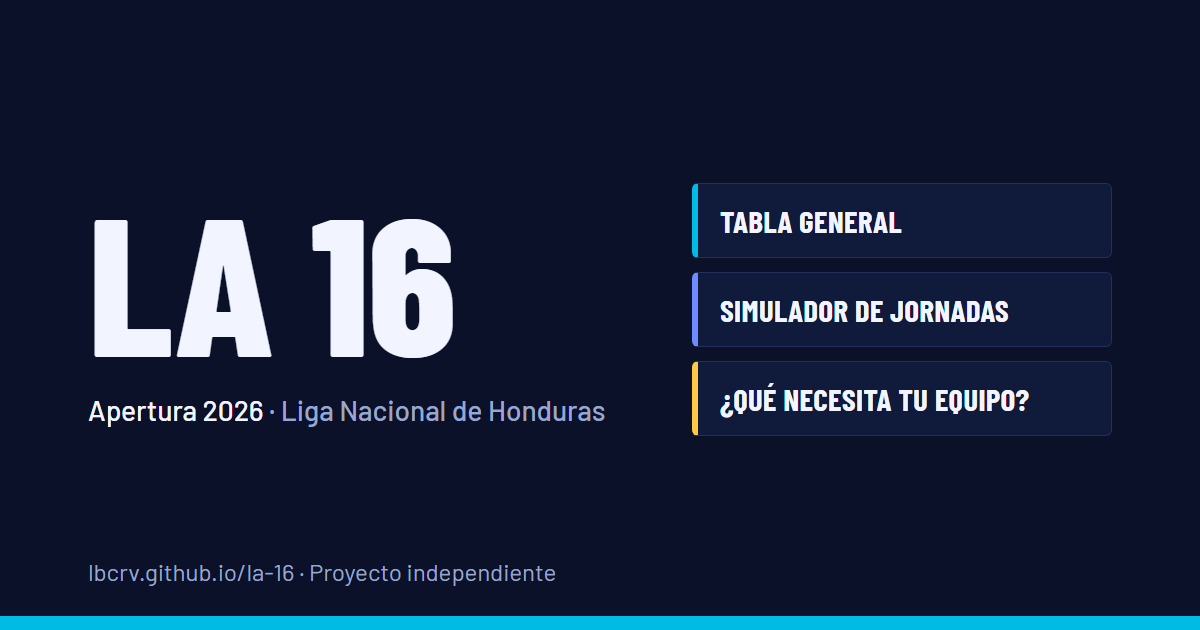
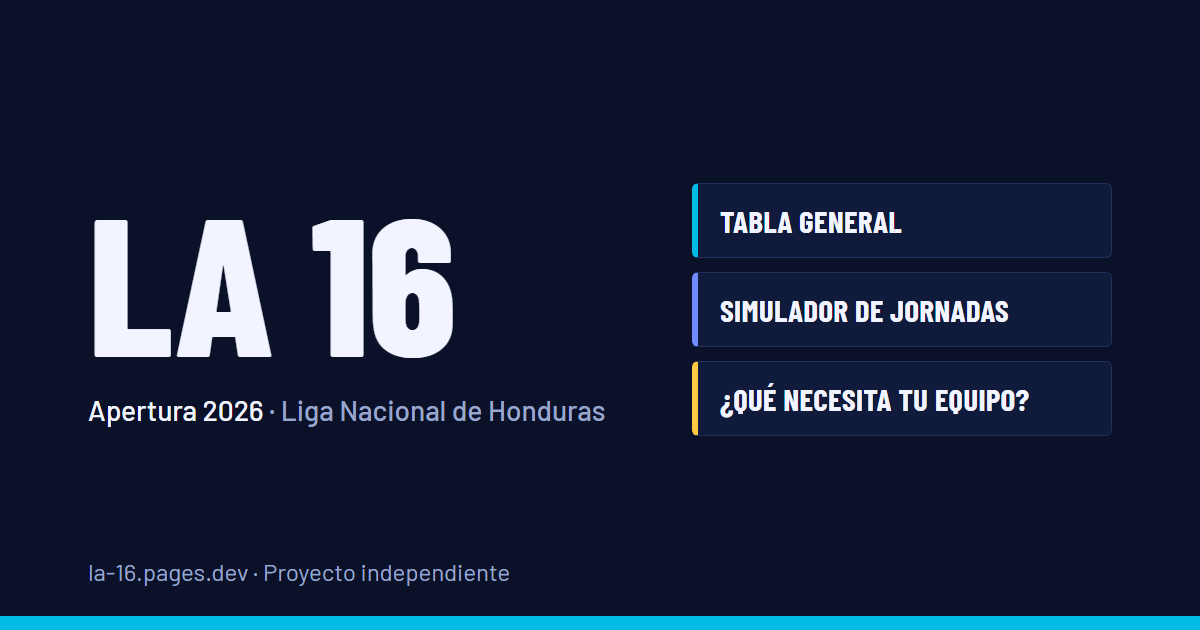
Mudanza a Cloudflare Pages
- Enlace canónico e imagen para compartir apuntan a la-16.pages.dev.
- La tarea programada solo actualiza datos; Cloudflare publica cada commit.
- GitHub Pages sirve una redirección a la dirección nueva.

Changed region(s): [[0.0617, 0.8746, 0.4625, 0.9349]]

diff --git a/index.html b/index.html
@@ -8,15 +8,15 @@
   <title>La 16 · Apertura 2026</title>
   <meta name="description" content="Tabla de posiciones, jornadas y simulador del Apertura 2026 de la Liga Nacional de Honduras. Proyecto independiente.">
   <meta name="theme-color" content="#0A1128">
-  <link rel="canonical" href="https://lbcrv.github.io/la-16/">
+  <link rel="canonical" href="https://la-16.pages.dev/">
 
   <meta property="og:type" content="website">
   <meta property="og:locale" content="es_HN">
   <meta property="og:site_name" content="La 16">
   <meta property="og:title" content="La 16 · Apertura 2026">
   <meta property="og:description" content="Tabla general, simulador de jornadas y qué necesita tu equipo para clasificar.">
-  <meta property="og:url" content="https://lbcrv.github.io/la-16/">
-  <meta property="og:image" content="https://lbcrv.github.io/la-16/assets/og.png">
+  <meta property="og:url" content="https://la-16.pages.dev/">
+  <meta property="og:image" content="https://la-16.pages.dev/assets/og.png">
   <meta property="og:image:width" content="1200">
   <meta property="og:image:height" content="630">
   <meta property="og:image:alt" content="La 16: tabla general, simulador de jornadas y qué necesita tu equipo. Apertura 2026, Liga Nacional de Honduras.">

diff --git a/redireccion/index.html b/redireccion/index.html
@@ -1,0 +1,14 @@
+<!DOCTYPE html>
+<html lang="es">
+<head>
+  <meta charset="UTF-8">
+  <title>La 16 se mudó</title>
+  <meta name="robots" content="noindex">
+  <link rel="canonical" href="https://la-16.pages.dev/">
+  <meta http-equiv="refresh" content="0; url=https://la-16.pages.dev/">
+  <script>location.replace("https://la-16.pages.dev/" + location.hash);</script>
+</head>
+<body>
+  <p>La 16 se mudó a <a href="https://la-16.pages.dev/">la-16.pages.dev</a>.</p>
+</body>
+</html>

diff --git a/README.md b/README.md
@@ -2,7 +2,7 @@
 
 Tabla de posiciones, jornadas y simulador del Apertura 2026 de la Liga Nacional de Honduras. El nombre viene de las 16 jornadas del formato nuevo.
 
-**En vivo:** https://lbcrv.github.io/la-16/
+**En vivo:** https://la-16.pages.dev/ (la dirección vieja, lbcrv.github.io/la-16, redirige aquí)
 
 Proyecto independiente de aficionados, sin afiliación con la Liga Nacional de Fútbol Profesional de Honduras ni con los clubes. No usa escudos, logos ni marcas oficiales.
 
@@ -24,10 +24,9 @@ Luego abre http://localhost:8716. También funciona con doble clic en `index.htm
 
 ## Actualización automática
 
-La tarea `.github/workflows/publicar.yml` hace dos cosas:
-
-1. **Actualizar**, tres veces al día (10 p. m., 1 a. m. y 8 a. m. hora de Honduras). Ejecuta `scripts/actualizar.mjs`, que consulta TheSportsDB y escribe en `js/data.js`. Si hubo cambios, hace commit y publica.
-2. **Publicar** el sitio en GitHub Pages en cada push a `main`.
+- **Publicación:** Cloudflare Pages está conectado al repo y publica cada commit a `main`. El comando de build copia solo los archivos del sitio (`index.html`, `manifest.webmanifest`, `_headers`, `css`, `js` y `assets`) a `_site`.
+- **Actualización:** la tarea `.github/workflows/actualizar.yml` corre tres veces al día (10 p. m., 1 a. m. y 8 a. m. hora de Honduras). Ejecuta `scripts/actualizar.mjs`, que consulta TheSportsDB y escribe en `js/data.js`. Si hubo cambios hace commit, y Cloudflare publica ese commit.
+- **Redirección:** `.github/workflows/redireccion.yml` publica en GitHub Pages solo la página de `redireccion/`, que manda a la dirección nueva y conserva la pestaña del enlace.
 
 Reglas del script:
 
@@ -36,7 +35,7 @@ Reglas del script:
 - En partidos pendientes actualiza la fecha y la hora si la liga las cambió. Si varios partidos de una jornada traen exactamente la misma hora, la toma como provisional y la ignora.
 - Solo consulta las jornadas que tienen algo por llenar, con pausas para no pasar el límite de la API gratuita.
 
-Para correrlo a mano: `node scripts/actualizar.mjs`. En GitHub también se puede lanzar desde **Actions → Actualizar y publicar → Run workflow**.
+Para correrlo a mano: `node scripts/actualizar.mjs`. En GitHub también se puede lanzar desde **Actions → Actualizar resultados → Run workflow**.
 
 La clave gratuita de TheSportsDB (`123`) es para pruebas y tiene límites. Si se contrata un plan, la clave se guarda como secreto del repo con el nombre `THESPORTSDB_KEY` y el script la usa sola.
 
@@ -51,10 +50,11 @@ Todo está en `js/data.js`. Cada partido ocupa una línea con el mismo formato, 
 
 ## Seguridad
 
-- Política de seguridad de contenido (CSP) estricta: solo se cargan scripts, estilos, fuentes e imágenes del propio sitio. No hay estilos ni scripts en línea.
+- Cabeceras de seguridad en `_headers` (Cloudflare): CSP estricta, `frame-ancestors 'none'` y `X-Frame-Options: DENY` contra que otra página meta el sitio en un marco, `nosniff`, `Referrer-Policy`, `Permissions-Policy` y HSTS.
+- La CSP también va en una etiqueta `<meta>` de `index.html`. Solo se cargan scripts, estilos, fuentes e imágenes del propio sitio, y no hay estilos ni scripts en línea.
 - Sin dependencias externas en tiempo de ejecución: las fuentes se sirven desde el propio sitio, sin Google Fonts.
 - La tarea de GitHub corre con permisos mínimos y las acciones están fijadas por hash de commit.
-- GitHub Pages sirve el sitio por HTTPS.
+- Todo se sirve por HTTPS.
 
 ## Pendiente de verificar
 
